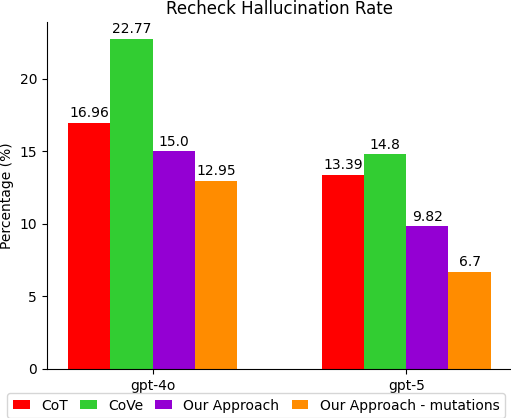
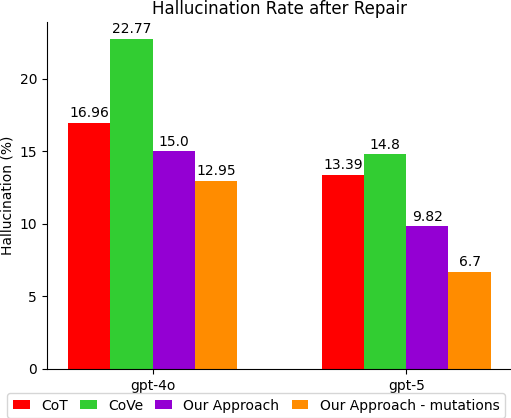
Update hallucination figure labels and slide
Changed y-axis label to 'Hallucination (%)' and updated the plot title to 'Hallucination Rate after Repair' in recheck_hallucination_figure.py. Updated the corresponding PNG output and PowerPoint slide to reflect these changes.

Changed region(s): [[0.2935, 0.0, 0.7926, 0.0311], [0.0, 0.311, 0.0294, 0.622]]

diff --git a/test/stat/recheck_hallucination_figure.py b/test/stat/recheck_hallucination_figure.py
@@ -30,10 +30,10 @@ rec3 = ax.bar(x + 0.5 * width, group3, width, label='Our Approach', color='darkv
 rec4 = ax.bar(x + 1.5 * width, group4, width, label='Our Approach - mutations', color='darkorange')
 # rec5 = ax.bar(x + 1.5 * width, group4, width, label='Our Approach - mutations', color='cyan')
 
-ax.set_ylabel('Percentage (%)')
+ax.set_ylabel('Hallucination (%)')
 ax.set_xticks(x)
 ax.set_xticklabels(labels)
-ax.set_title('Recheck Hallucination Rate')
+ax.set_title('Hallucination Rate after Repair')
 ax.set_xticks(x)
 ax.set_xticklabels(labels)
 